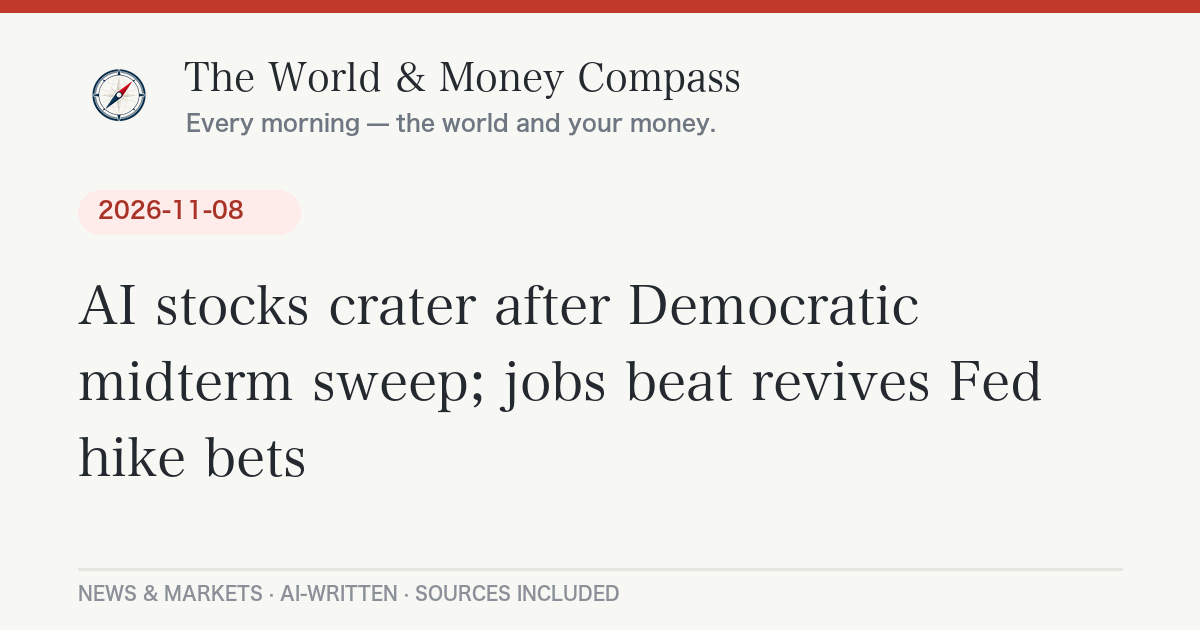
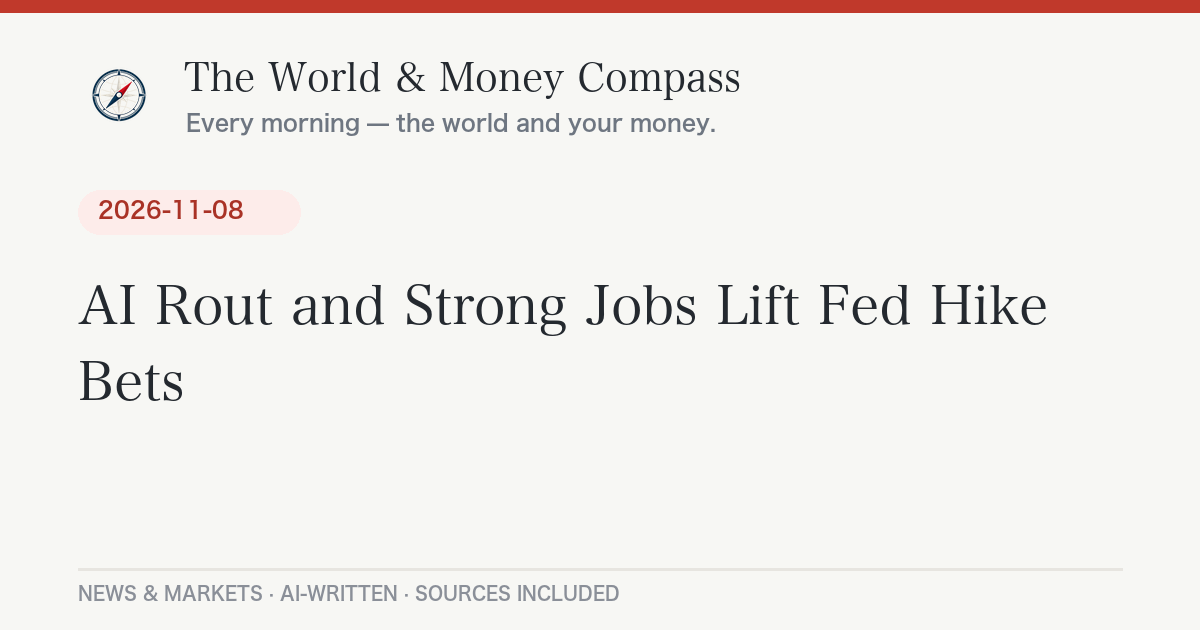
Daily briefing 2026-11-10

Changed region(s): [[0.0617, 0.573, 0.8633, 0.6635], [0.1233, 0.4524, 0.8633, 0.5429], [0.0617, 0.6937, 0.2775, 0.754]]

diff --git a/_posts/2026-11-10-daily-briefing.md b/_posts/2026-11-10-daily-briefing.md
@@ -1,0 +1,94 @@
+---
+layout: post
+lang: ja
+title: "米株急反発、原油安でダウ1,100ドル高・日経平均も1,340円高｜11月10日のニュースとお金"
+date: 2026-11-10 07:37:52 +0900
+categories: [ニュース, 経済]
+headline: "米株急反発、原油安でダウ1,100ドル高・日経平均も1,340円高"
+permalink: /2026/11/10/daily-briefing/
+---
+
+## 今日のポイント
+
+先週の大きな下げの反動で、9日は日米欧の株がそろって反発しました。きっかけは原油の下落です。トランプ大統領がイランへの新たな攻撃は考えていないと話し、物価が上がりにくくなるとの見方が広がりました。今日は米国の10月の消費者物価指数（CPI）が発表され、この反発が続くかどうかを占う一日になります。
+
+## 今日の羅針盤（Compass Insight）
+
+9日の株高は「景気が良くなったから」ではなく、「心配が少し和らいだから」の上昇です。先週は米中間選挙で民主党が大勝し、AI関連の規制が強まるのではという不安から株が売られました。そこへ原油安が重なり、物価と金利への警戒がゆるんで買い戻しが入った形です。
+
+家計への影響で見ると、原油が下がればガソリン代や電気・ガス代、輸送費を通じて物価の押し下げ要因になります。ドル円は1ドル157円台の円安水準が続いており、円安が輸入品の値段を押し上げる流れは変わりません。原油安が円安の影響をどこまで打ち消せるかがポイントです。
+
+短期では、今日の米CPIと、中東情勢（ホルムズ海峡の再開をめぐる協議）に注目です。中長期では、AI関連株が規制の話題でどこまで揺れるか、原油の下落が続くかが焦点になります。急な上げのあとは値動きが荒くなりやすいため、数日の動きに一喜一憂しすぎない姿勢が大切です。
+
+## 今日のニュース
+
+### 日本
+- 高市首相は[ベトナムのトー・ラム書記長と会談](https://www.jiji.com/jc/article?k=2026110900928&g=flash&m=rss)し、重要鉱物での協力を加速させることで一致しました。
+- 高市首相は[フランス主催のAI関連会議にオンラインで出席](https://news.yahoo.co.jp/articles/63cbfff320e3e208364fe287a5c189408c51af87)したと政府が発表しました。
+- 高市首相は8日の国民大集会で、[日朝首脳会談の実現に強い意欲](https://news.yahoo.co.jp/articles/142b097763afb3ae52670819f83573d1da2d278e)を示しました。
+
+### 世界
+- トランプ大統領は、[イランへの新たな攻撃は今のところ予定していない](https://spectrumlocalnews.com/nys/central-ny/international/2026/11/09/trump-no-plans-iran-strikes-defends-war)と述べました。核問題で前進があれば攻撃は「ありそうにない」との趣旨で、協議の仲介役を務めるカタールの首相とも会談しています。
+- 一方、ルビオ国務長官は「突破口が開く直前とは言えない」と慎重な見方を示しており、先行きは不透明です。
+
+### アメリカ
+- 米国株は大きく反発しました。[ロイター](http://www.kitco.com/news/off-the-wire/2026-11-09/wall-st-jumps-back-oil-slide-eases-inflation-worries-nvidia-slumps)によると、S&P500の主要11業種はすべて上昇し、特に資本財と一般消費財が3%超上がりました。
+- 半導体大手のエヌビディアは、[ジェンスン・フアンCEOをめぐる社内調査の報道](https://www.fool.com/coverage/stock-market-today/2026/11/09/stock-market-today-nov-9-nvidia-stock-plunges-4-on-jensen-huang-investigation-as-nasdaq-surges-nearly-3/)で約4%下落しました。
+- 先週は中間選挙で民主党が大勝し、AI関連株が売られました。
+
+### ヨーロッパ
+- 欧州株も上昇し、[STOXX600は1%超の上昇](https://eurasiabusinessnews.com/2026/11/09/stock-market-today-asian-markets-diverge-as-european-shares-rally-on-november-9-2026/)となりました。イタリアのFTSE MIBは約2.7%高でした。
+- 政治・外交面で、本日確認できた大きな新規ニュースは限定的です。
+
+## 経済とお金の動き
+
+### 世界の経済と相場
+
+| 指標 | 水準 | 前日比 |
+|---|---|---|
+| 日経平均株価（9日終値） | [58,775.50円](https://kabutan.jp/news/marketnews/?b=n202611091226) | <span class="chg-up">+1,340.73円（+2.33%）</span> |
+| NYダウ（9日終値） | 52,389.75ドル | <span class="chg-up">+2.15%（約1,100ドル高）</span> |
+| S&P500（9日終値） | 7,549.94 | <span class="chg-up">+2.35%</span> |
+| ナスダック総合（9日終値） | 25,253.14 | <span class="chg-up">+2.74%</span> |
+| ドル円（ECB基準日 11月9日） | [157.95円](https://api.frankfurter.app/latest?from=USD&to=JPY) | 変動は小さい |
+| WTI原油 | 1バレル87ドル前後 | <span class="chg-down">約4%下落</span> |
+
+米株の数値は[CNBC・Motley Fool等の報道](https://www.fool.com/coverage/stock-market-today/2026/11/09/stock-market-today-nov-9-nvidia-stock-plunges-4-on-jensen-huang-investigation-as-nasdaq-surges-nearly-3/)にもとづきます。原油は報道によって数十セントの差があるため「前後」と表記しました。原油は[ロイターの報道](http://www.kitco.com/news/off-the-wire/2026-11-09/wall-st-jumps-back-oil-slide-eases-inflation-worries-nvidia-slumps)でも約4%安とされ、先週の急落に続く下げです。
+
+### アメリカの経済
+今日、米国の10月CPIが発表されます。金曜日には生産者物価指数（PPI）も控えています。原油安が物価の見通しを和らげたことで、市場は結果を見極めようとしています。ロイターによると、一部の証券会社は先週のAI株の売りを「行き過ぎ」と見ています。
+
+### 日本の経済
+日経平均は6営業日ぶりに反発しました。株探は、前週末の米半導体株高を受けた買い戻しが優勢だったと伝えています。ただ、一時は2,000円超上がったあとに上げ幅を縮めており、戻りは慎重です。為替は1ドル157円台で、円安が続いています。
+
+## 今日の注目銘柄・セクター
+
+- **エヌビディア（米）**：市場全体が大きく上がるなか、CEOをめぐる社内調査の報道で約4%下落しました。AI相場の中心銘柄だけに、指数への影響も意識されています。
+- **資本財・一般消費財セクター（米）**：S&P500の業種別で上昇率が最も大きく、3%超の上昇でした。原油安で景気や消費への不安が和らいだことが背景です。
+- **半導体関連（日本）**：前週末の米半導体株高を受け、日経平均の反発をけん引しました。
+
+*※特定銘柄の売買を推奨するものではありません。投資判断はご自身の責任で。*
+
+## まとめ：注目の3つ
+
+1. 今日発表の米10月CPI：株高が続くかの分かれ目
+2. イラン情勢とホルムズ海峡：原油価格を左右する最大の変数
+3. 円安（1ドル157円台）と原油安：家計の物価にどちらが効くか
+
+---
+<div class="post-sources" markdown="1">
+
+**出典：**
+- [時事ドットコム：日越首脳、重要鉱物で協力加速](https://www.jiji.com/jc/article?k=2026110900928&g=flash&m=rss)
+- [共同通信（Yahoo!ニュース）：高市首相がAI関連オンライン会議に出席](https://news.yahoo.co.jp/articles/63cbfff320e3e208364fe287a5c189408c51af87)
+- [FNN（Yahoo!ニュース）：高市総理、日朝首脳会談に意欲](https://news.yahoo.co.jp/articles/142b097763afb3ae52670819f83573d1da2d278e)
+- [Spectrum News：トランプ氏、イランへの新たな攻撃予定なし](https://spectrumlocalnews.com/nys/central-ny/international/2026/11/09/trump-no-plans-iran-strikes-defends-war)
+- [ロイター（Kitco配信）：原油安で米株反発、エヌビディア急落](http://www.kitco.com/news/off-the-wire/2026-11-09/wall-st-jumps-back-oil-slide-eases-inflation-worries-nvidia-slumps)
+- [Motley Fool：Stock Market Today, Nov. 9](https://www.fool.com/coverage/stock-market-today/2026/11/09/stock-market-today-nov-9-nvidia-stock-plunges-4-on-jensen-huang-investigation-as-nasdaq-surges-nearly-3/)
+- [株探：日経平均 大引け（11月9日）](https://kabutan.jp/news/marketnews/?b=n202611091226)
+- [Eurasia Business News：欧州株式市場（11月9日）](https://eurasiabusinessnews.com/2026/11/09/stock-market-today-asian-markets-diverge-as-european-shares-rally-on-november-9-2026/)
+- 市場データ: [frankfurter API](https://api.frankfurter.app/latest?from=USD&to=JPY)
+
+*本記事は公開情報をもとに作成しています。*
+
+</div>

diff --git a/_posts/2026-11-10-daily-briefing-en.md b/_posts/2026-11-10-daily-briefing-en.md
@@ -1,0 +1,51 @@
+---
+layout: post
+lang: en
+title: "Wall Street Rebounds as Oil Slides and Iran Fears Ease — November 10, 2026"
+date: 2026-11-10 07:37:52 +0900
+headline: "Wall Street Rebounds as Oil Slides and Iran Fears Ease"
+permalink: /2026/11/10/daily-briefing/
+---
+
+## Top U.S. Stories
+
+- U.S. stocks rallied on Monday, with the Dow up about 2.15%, the S&P 500 up 2.35% and the Nasdaq up 2.74%, [according to market recaps](https://www.fool.com/coverage/stock-market-today/2026/11/09/stock-market-today-nov-9-nvidia-stock-plunges-4-on-jensen-huang-investigation-as-nasdaq-surges-nearly-3/). All 11 S&P 500 sectors rose, [Reuters reported](http://www.kitco.com/news/off-the-wire/2026-11-09/wall-st-jumps-back-oil-slide-eases-inflation-worries-nvidia-slumps), led by industrials and consumer discretionary.
+  *Why it matters:* The bounce came after the S&P 500's biggest weekly drop since April 2025, so Monday looks more like relief than a new trend.
+- President Trump said he has [no plans for new strikes on Iran](https://spectrumlocalnews.com/nys/central-ny/international/2026/11/09/trump-no-plans-iran-strikes-defends-war) for now, and called renewed attacks "highly unlikely" if Tehran makes progress on a nuclear deal and reopening the Strait of Hormuz. He also met Qatar's prime minister, a key mediator.
+  *Why it matters:* Lower odds of new fighting cut the risk premium in oil, which feeds directly into inflation expectations.
+- Nvidia fell about 4% on [reports of an internal investigation involving CEO Jensen Huang](https://www.fool.com/coverage/stock-market-today/2026/11/09/stock-market-today-nov-9-nvidia-stock-plunges-4-on-jensen-huang-investigation-as-nasdaq-surges-nearly-3/), even as the broader tech sector gained.
+  *Why it matters:* As one of the market's largest companies, Nvidia's moves can sway the AI trade and the major indexes.
+- Last week's selloff followed a [sweeping Democratic win in the midterm elections](http://www.kitco.com/news/off-the-wire/2026-11-09/wall-st-jumps-back-oil-slide-eases-inflation-worries-nvidia-slumps), which raised worries about tighter regulation of AI.
+- October CPI is due Tuesday and PPI on Friday.
+
+## Compass Insight
+
+Monday's rally was about relief, not good news. Stocks fell last week on midterm-driven fears of tougher AI rules, and then a sharp drop in oil eased worries about inflation and interest rates. That let buyers step back in. The key question is whether oil stays low: it depends on the Iran talks, and Secretary of State Rubio said a breakthrough is not imminent. In the short term, watch today's CPI and any headlines on the Strait of Hormuz. Over the medium term, the question is how much regulation risk the AI trade can absorb. After a sharp one-day jump, volatility often stays high, so avoid reading too much into a single session.
+
+## Markets
+
+- Dow: 52,389.75 (+2.15%); S&P 500: 7,549.94 (+2.35%); Nasdaq: 25,253.14 (+2.74%).
+- Oil: WTI around $87 a barrel, down roughly 4%, [per Reuters](http://www.kitco.com/news/off-the-wire/2026-11-09/wall-st-jumps-back-oil-slide-eases-inflation-worries-nvidia-slumps), extending last week's steep decline.
+- Japan's Nikkei 225 [rose 2.33% to 58,775.50](https://kabutan.jp/news/marketnews/?b=n202611091226), its first gain in six sessions. Europe's [STOXX 600 gained more than 1%](https://eurasiabusinessnews.com/2026/11/09/stock-market-today-asian-markets-diverge-as-european-shares-rally-on-november-9-2026/).
+- USD/JPY: [157.95](https://api.frankfurter.app/latest?from=USD&to=JPY) (ECB reference rate, Nov. 9).
+
+## Stocks in Focus
+
+- **Nvidia:** Down about 4% on the Huang investigation reports while the Nasdaq surged.
+- **Industrials and consumer discretionary:** The best-performing S&P 500 sectors, each up more than 3%, as lower oil eased cost and demand worries.
+
+*Not a recommendation to buy or sell any security.*
+
+<div class="post-sources" markdown="1">
+
+**Sources:**
+- [Reuters via Kitco: Wall St jumps back as oil slide eases inflation worries](http://www.kitco.com/news/off-the-wire/2026-11-09/wall-st-jumps-back-oil-slide-eases-inflation-worries-nvidia-slumps)
+- [Motley Fool: Stock Market Today, Nov. 9](https://www.fool.com/coverage/stock-market-today/2026/11/09/stock-market-today-nov-9-nvidia-stock-plunges-4-on-jensen-huang-investigation-as-nasdaq-surges-nearly-3/)
+- [Spectrum News: Trump says no plans for Iran strikes](https://spectrumlocalnews.com/nys/central-ny/international/2026/11/09/trump-no-plans-iran-strikes-defends-war)
+- [Kabutan: Nikkei close, Nov. 9](https://kabutan.jp/news/marketnews/?b=n202611091226)
+- [Eurasia Business News: European markets, Nov. 9](https://eurasiabusinessnews.com/2026/11/09/stock-market-today-asian-markets-diverge-as-european-shares-rally-on-november-9-2026/)
+- Market data: [frankfurter API](https://api.frankfurter.app/)
+
+</div>
+
+*Auto-generated and AI-written. Not investment advice.*
